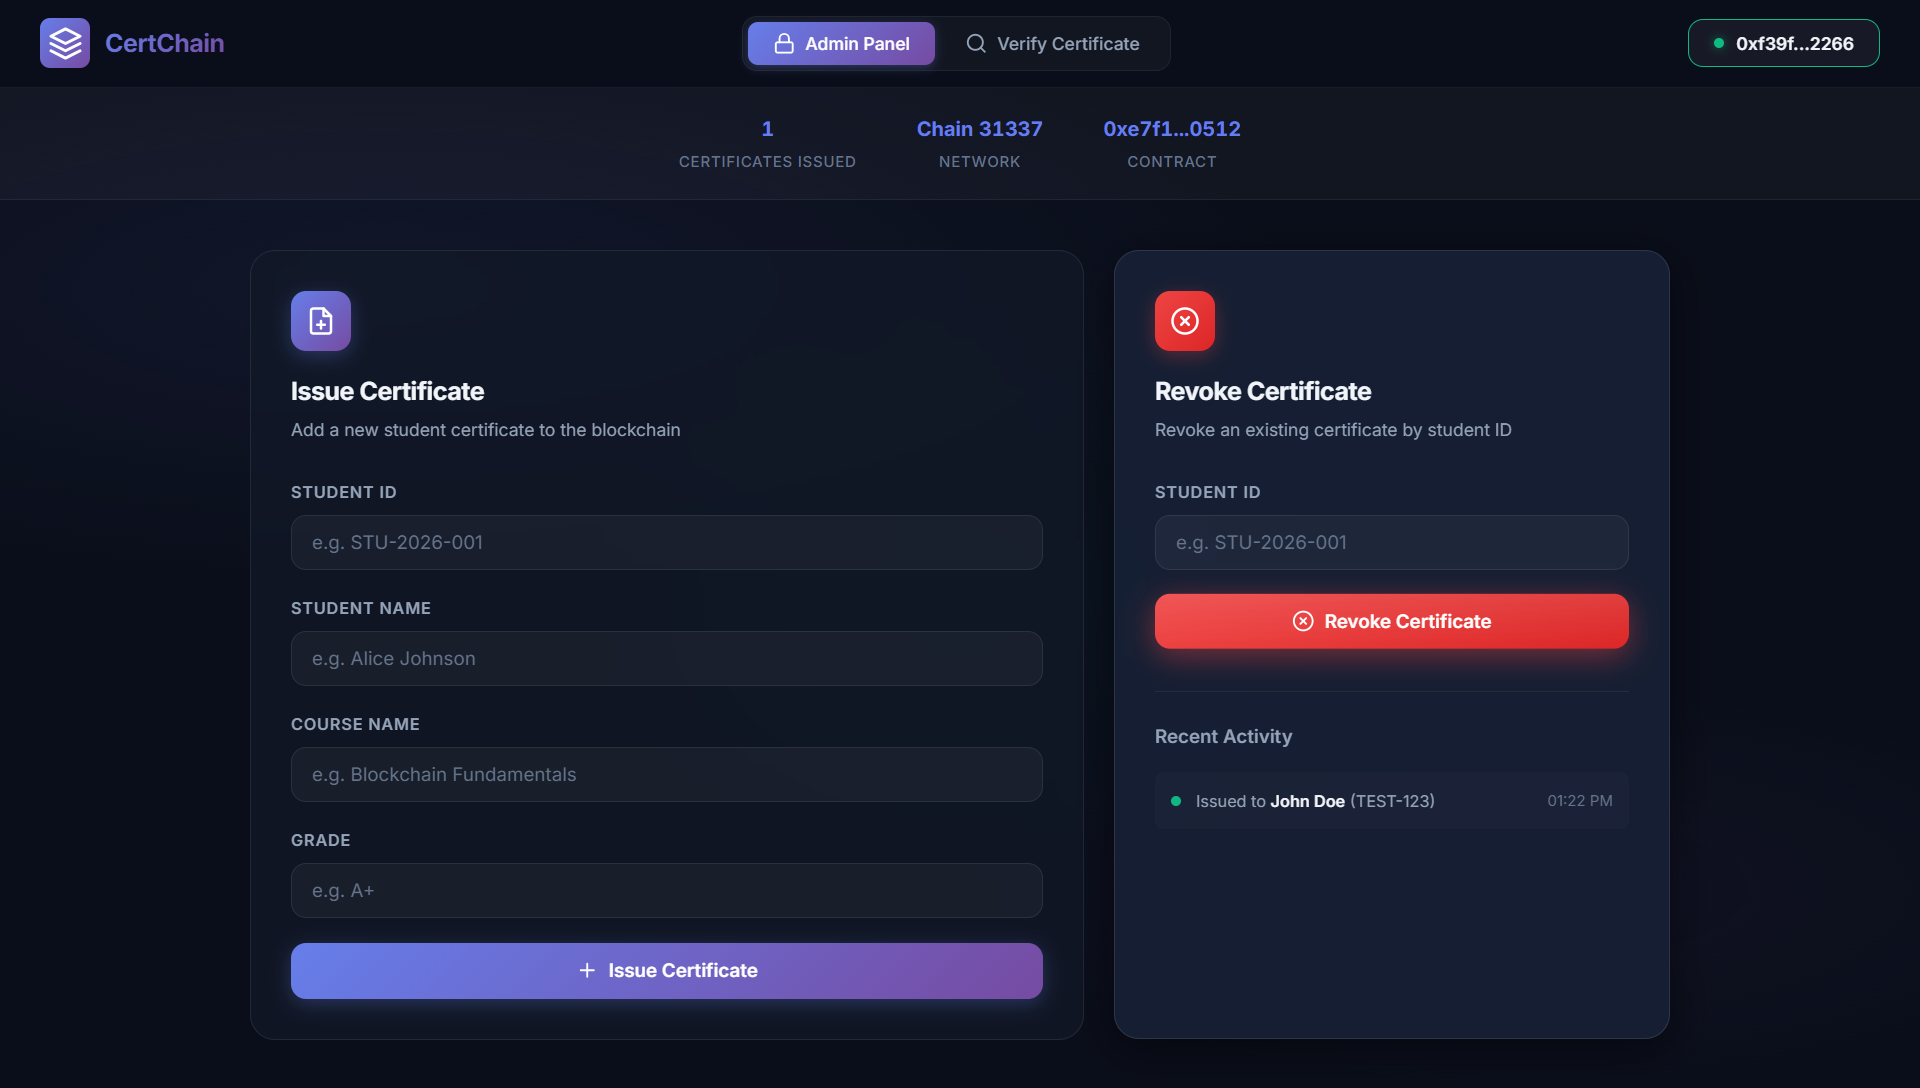
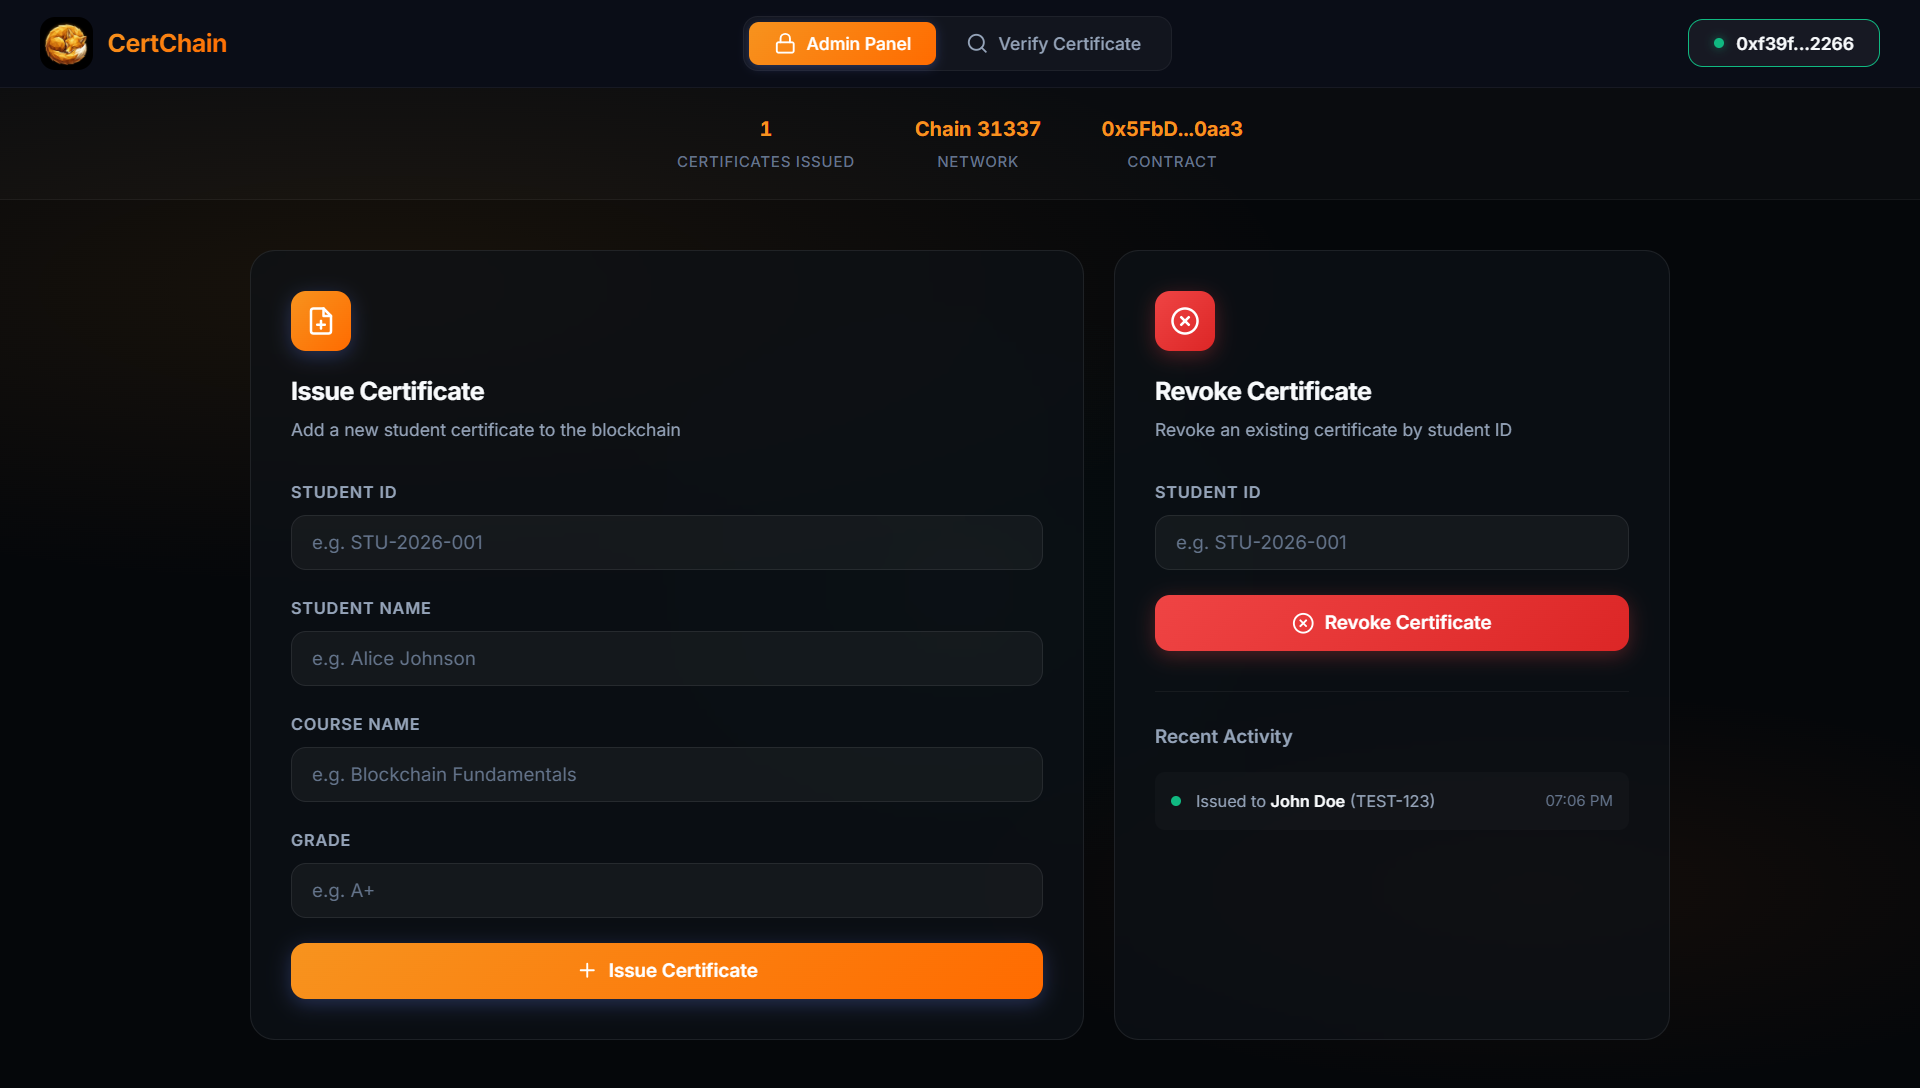
enhance UI

diff --git a/frontend/index.css b/frontend/index.css
@@ -1,39 +1,39 @@
 :root {
-  --bg-primary: #0a0e1a;
-  --bg-secondary: #111827;
-  --bg-card: rgba(17, 24, 39, 0.7);
-  --bg-card-hover: rgba(24, 34, 56, 0.8);
-  --bg-glass: rgba(255, 255, 255, 0.03);
+  --bg-primary: #05070a;
+  --bg-secondary: #0d1117;
+  --bg-card: rgba(13, 17, 23, 0.7);
+  --bg-card-hover: rgba(22, 27, 34, 0.8);
+  --bg-glass: rgba(255, 255, 255, 0.02);
 
-  --accent-blue: #667eea;
-  --accent-purple: #764ba2;
-  --accent-cyan: #06b6d4;
+  --accent-gold: #f7931e;
+  --accent-amber: #ff6b00;
+  --accent-yellow: #ffcc00;
   --accent-green: #10b981;
   --accent-red: #ef4444;
-  --accent-amber: #f59e0b;
+  --accent-teal: #14b8a6;
 
-  --gradient-primary: linear-gradient(135deg, #667eea 0%, #764ba2 100%);
+  --gradient-primary: linear-gradient(135deg, #f7931e 0%, #ff6b00 100%);
   --gradient-success: linear-gradient(135deg, #10b981 0%, #059669 100%);
   --gradient-danger: linear-gradient(135deg, #ef4444 0%, #dc2626 100%);
   --gradient-glow: linear-gradient(
     135deg,
-    rgba(102, 126, 234, 0.15) 0%,
-    rgba(118, 75, 162, 0.15) 100%
+    rgba(247, 147, 30, 0.2) 0%,
+    rgba(255, 107, 0, 0.2) 100%
   );
 
-  --text-primary: #f1f5f9;
+  --text-primary: #f8fafc;
   --text-secondary: #94a3b8;
   --text-muted: #64748b;
-  --text-accent: #667eea;
+  --text-accent: #f7931e;
 
-  --border-subtle: rgba(255, 255, 255, 0.06);
+  --border-subtle: rgba(255, 255, 255, 0.05);
   --border-card: rgba(255, 255, 255, 0.08);
-  --border-focus: rgba(102, 126, 234, 0.5);
+  --border-focus: rgba(247, 147, 30, 0.5);
 
-  --shadow-sm: 0 1px 2px rgba(0, 0, 0, 0.3);
-  --shadow-md: 0 4px 12px rgba(0, 0, 0, 0.4);
-  --shadow-lg: 0 8px 32px rgba(0, 0, 0, 0.5);
-  --shadow-glow: 0 0 30px rgba(102, 126, 234, 0.15);
+  --shadow-sm: 0 1px 2px rgba(0, 0, 0, 0.4);
+  --shadow-md: 0 4px 12px rgba(0, 0, 0, 0.5);
+  --shadow-lg: 0 12px 32px rgba(0, 0, 0, 0.6);
+  --shadow-glow: 0 0 30px rgba(247, 147, 30, 0.15);
 
   --nav-height: 70px;
   --radius-sm: 8px;
@@ -78,11 +78,11 @@ body::before {
   height: 100%;
   background: radial-gradient(
       ellipse 80% 50% at 20% 20%,
-      rgba(102, 126, 234, 0.08) 0%,
+      rgba(247, 147, 30, 0.08) 0%,
       transparent 60%
     ),
-    radial-gradient(ellipse 60% 40% at 80% 80%, rgba(118, 75, 162, 0.06) 0%, transparent 50%),
-    radial-gradient(ellipse 40% 60% at 50% 50%, rgba(6, 182, 212, 0.04) 0%, transparent 50%);
+    radial-gradient(ellipse 60% 40% at 80% 80%, rgba(255, 107, 0, 0.06) 0%, transparent 50%),
+    radial-gradient(ellipse 40% 60% at 50% 50%, rgba(20, 184, 166, 0.04) 0%, transparent 50%);
   pointer-events: none;
   z-index: 0;
 }
@@ -114,11 +114,21 @@ nav {
   display: flex;
   align-items: center;
   justify-content: center;
-  width: 40px;
-  height: 40px;
-  background: var(--gradient-primary);
-  border-radius: var(--radius-sm);
-  color: white;
+  width: 42px;
+  height: 42px;
+  border-radius: var(--radius-md);
+  overflow: hidden;
+  transition: transform var(--transition-base);
+}
+
+.brand-icon:hover {
+  transform: scale(1.05);
+}
+
+#nav-logo {
+  width: 100%;
+  height: 100%;
+  object-fit: contain;
 }
 
 .brand-text {
@@ -189,7 +199,7 @@ nav {
 
 .wallet-btn:hover {
   background: rgba(255, 255, 255, 0.08);
-  border-color: var(--accent-blue);
+  border-color: var(--accent-gold);
   box-shadow: var(--shadow-glow);
 }
 
@@ -241,7 +251,7 @@ nav {
 .stat-value {
   font-size: 1rem;
   font-weight: 700;
-  color: var(--accent-blue);
+  color: var(--accent-gold);
   font-variant-numeric: tabular-nums;
 }
 
@@ -393,9 +403,9 @@ main {
 }
 
 .form-group input:focus {
-  border-color: var(--accent-blue);
-  background: rgba(102, 126, 234, 0.06);
-  box-shadow: 0 0 0 3px rgba(102, 126, 234, 0.12);
+  border-color: var(--accent-gold);
+  background: rgba(247, 147, 30, 0.06);
+  box-shadow: 0 0 0 3px rgba(247, 147, 30, 0.12);
 }
 
 .btn {
@@ -646,8 +656,8 @@ main {
 }
 
 .search-wrapper:focus-within {
-  border-color: var(--accent-blue);
-  box-shadow: 0 0 0 3px rgba(102, 126, 234, 0.12), var(--shadow-glow);
+  border-color: var(--accent-gold);
+  box-shadow: 0 0 0 3px rgba(247, 147, 30, 0.12), var(--shadow-glow);
 }
 
 .search-icon {
@@ -790,11 +800,11 @@ main {
 .hash-value {
   font-family: "Courier New", Courier, monospace;
   font-size: 0.75rem;
-  color: var(--accent-cyan);
+  color: var(--accent-teal);
   word-break: break-all;
   padding: 0.625rem 0.875rem;
-  background: rgba(6, 182, 212, 0.06);
-  border: 1px solid rgba(6, 182, 212, 0.15);
+  background: rgba(20, 184, 166, 0.06);
+  border: 1px solid rgba(20, 184, 166, 0.15);
   border-radius: var(--radius-sm);
   width: 100%;
 }

diff --git a/frontend/app.js b/frontend/app.js
@@ -304,16 +304,16 @@ function generateCertificatePDF() {
   const issueDate = document.getElementById("result-date").textContent;
   const hash = document.getElementById("result-hash").textContent;
 
-  doc.setFillColor(15, 23, 42);
+  doc.setFillColor(5, 7, 10);
   doc.rect(0, 0, w, h, "F");
 
-  doc.setDrawColor(102, 126, 234);
+  doc.setDrawColor(247, 147, 30);
   doc.setLineWidth(1.5);
   doc.rect(10, 10, w - 20, h - 20);
   doc.setLineWidth(0.5);
   doc.rect(13, 13, w - 26, h - 26);
 
-  doc.setDrawColor(102, 126, 234);
+  doc.setDrawColor(247, 147, 30);
   doc.setLineWidth(0.3);
   doc.line(20, 55, w - 20, 55);
   doc.line(20, h - 55, w - 20, h - 55);
@@ -322,7 +322,7 @@ function generateCertificatePDF() {
 
   doc.setFont("helvetica", "bold");
   doc.setFontSize(12);
-  doc.setTextColor(102, 126, 234);
+  doc.setTextColor(247, 147, 30);
   doc.text("CERTCHAIN", cx, 30, { align: "center" });
 
   doc.setFontSize(28);
@@ -336,10 +336,10 @@ function generateCertificatePDF() {
 
   doc.setFont("helvetica", "bold");
   doc.setFontSize(32);
-  doc.setTextColor(102, 126, 234);
+  doc.setTextColor(247, 147, 30);
   doc.text(studentName, cx, 88, { align: "center" });
 
-  doc.setDrawColor(102, 126, 234);
+  doc.setDrawColor(247, 147, 30);
   doc.setLineWidth(0.4);
   const nameW = doc.getTextWidth(studentName);
   doc.line(cx - nameW / 2 - 5, 92, cx + nameW / 2 + 5, 92);

diff --git a/frontend/index.html b/frontend/index.html
@@ -15,25 +15,13 @@
       rel="stylesheet"
     />
     <link rel="stylesheet" href="index.css" />
+    <link rel="icon" type="image/png" href="assets/logo_withoutbg.png" />
   </head>
   <body>
     <nav id="main-nav">
       <div class="nav-brand">
         <div class="brand-icon">
-          <svg
-            width="28"
-            height="28"
-            viewBox="0 0 24 24"
-            fill="none"
-            stroke="currentColor"
-            stroke-width="2"
-            stroke-linecap="round"
-            stroke-linejoin="round"
-          >
-            <path d="M12 2L2 7l10 5 10-5-10-5z" />
-            <path d="M2 17l10 5 10-5" />
-            <path d="M2 12l10 5 10-5" />
-          </svg>
+          <img src="assets/logo.png" alt="CertChain Logo" id="nav-logo" />
         </div>
         <span class="brand-text">CertChain</span>
       </div>

diff --git a/README.md b/README.md
@@ -1,4 +1,4 @@
-# CertChain
+# <img src="frontend/assets/logo.png" width="40" height="40" style="vertical-align: middle; margin-right: 10px;"> CertChain
 
 > A decentralized application for issuing and verifying academic certificates on the Ethereum blockchain.
 
@@ -23,13 +23,14 @@
 
 ## Tech Stack
 
-| Layer          | Technology              |
-| -------------- | ----------------------- |
-| Smart Contract | Solidity 0.8.20         |
-| Framework      | Hardhat v3 (ES Modules) |
-| Frontend       | Vanilla HTML / CSS / JS |
-| Wallet Bridge  | Ethers.js v6 (CDN)      |
-| Wallet         | MetaMask                |
+| Layer                 | Technology                     |
+| --------------------- | ------------------------------ |
+| **Smart Contract**    | Solidity 0.8.20                |
+| **Blockchain Engine** | Hardhat v3 (ES Modules)        |
+| **Frontend UI**       | Vanilla HTML5 / Modern CSS3    |
+| **Logic Layer**       | Vanilla JS (ES13+)             |
+| **Wallet Bridge**     | Ethers.js v6 (CDN)             |
+| **Utils**             | jsPDF, QRCode.js, Html5-QRCode |
 
 ---
 
@@ -104,20 +105,18 @@ Open `http://127.0.0.1:3000` in your browser.
 
 ## Usage
 
-### Admin (Contract Deployer)
+### Admin Panel (Authority)
 
-1. Click **Connect Wallet** using the deployer account (Account #0)
-2. Navigate to the **Admin Panel** tab
-3. Fill in Student ID, Name, Course, and Grade, then click **Issue Certificate**
-4. A QR Code modal will automatically appear, allowing you to **Download the QR Code** for the student
-5. To revoke, enter the Student ID and click **Revoke Certificate**
+- **Connect Wallet**: Use the account that deployed the contract.
+- **Issue**: Enter Student ID, Name, Course, and Grade. Confirm transaction in MetaMask.
+- **QR Modal**: Upon success, a QR code is generated. Download it for the student.
+- **Revoke**: Change certificate status to "Revoked" instantly if needed.
 
-### Public (Verification)
+### Verification Panel (Public)
 
-1. Navigate to the **Verify Certificate** tab
-2. Enter a Student ID and click **Verify**, or click **Scan QR Code** to scan a physical certificate with your camera
-3. The certificate details, validity status, and on-chain hash will accurately display based on blockchain data
-4. For valid certificates, you can instantly download a beautifully styled **Certificate PDF** or a scannable **QR Code**
+- **Manual Check**: Search by Student ID to pull live blockchain data.
+- **Scanner**: Use your camera to scan a physical/digital QR code for instant lookup.
+- **Download**: Generate a high-fidelity PDF certificate for valid credentials.
 
 ---
 
@@ -132,17 +131,20 @@ Certificate-DApp/
 ├── contracts/
 │   └── CertificateVerification.sol     # Smart contract logic
 ├── scripts/
-│   └── deploy.js                       # Deployment automation
+│   └── deploy.js                       # Deployment automation script
 ├── test/
-│   └── CertificateVerification.test.js # Core unit tests (18 specs)
+│   └── CertificateVerification.test.js # Comprehensive unit tests
 ├── frontend/
-│   ├── index.html                      # UI layout
-│   ├── index.css                       # Minimalist dark-mode design
-│   ├── app.js                          # Blockchain interaction logic
+│   ├── assets/                         # Branding images and icons
+│   │   ├── logo.png                    # Primary logo
+│   │   └── logo_withoutbg.png          # Favicon/Clean logo
+│   ├── index.html                      # Semantic UI structure
+│   ├── index.css                       # Modern dark-mode styling
+│   ├── app.js                          # Blockchain & UI interaction logic
 │   └── config.js                       # Auto-generated contract config
-├── hardhat.config.js                   # Network and compiler configuration
-├── package.json                        # Dependencies and task scripts
-└── .gitignore                          # Version control exclusions
+├── assets/                             # Documentation diagrams
+├── hardhat.config.js                   # Network & compiler configuration
+└── package.json                        # Scripts and dependencies
 ```
 
 ---
@@ -181,6 +183,8 @@ Re-deploy with `npm run deploy` after restarting `npm run node` to refresh the s
 - **Email Notifications**: Dispatch updates to students automatically upon issuance or revocation
 
 ---
+
+🤝 Contributions are welcome! Feel free to open an issue or submit a pull request.
 
 ## License
 
